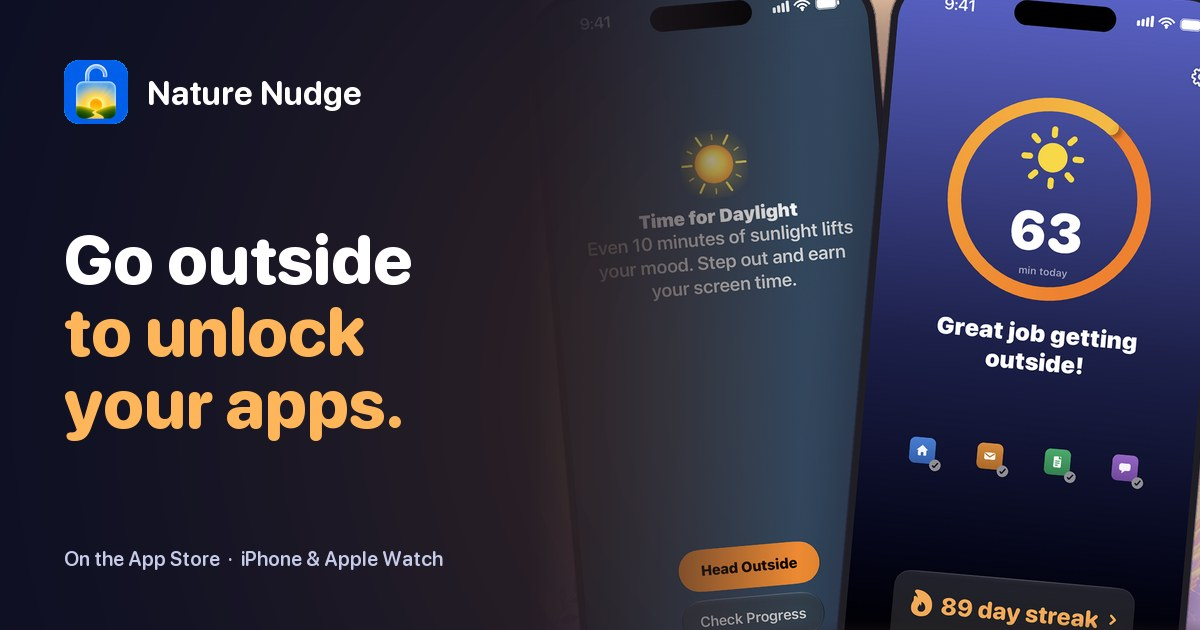
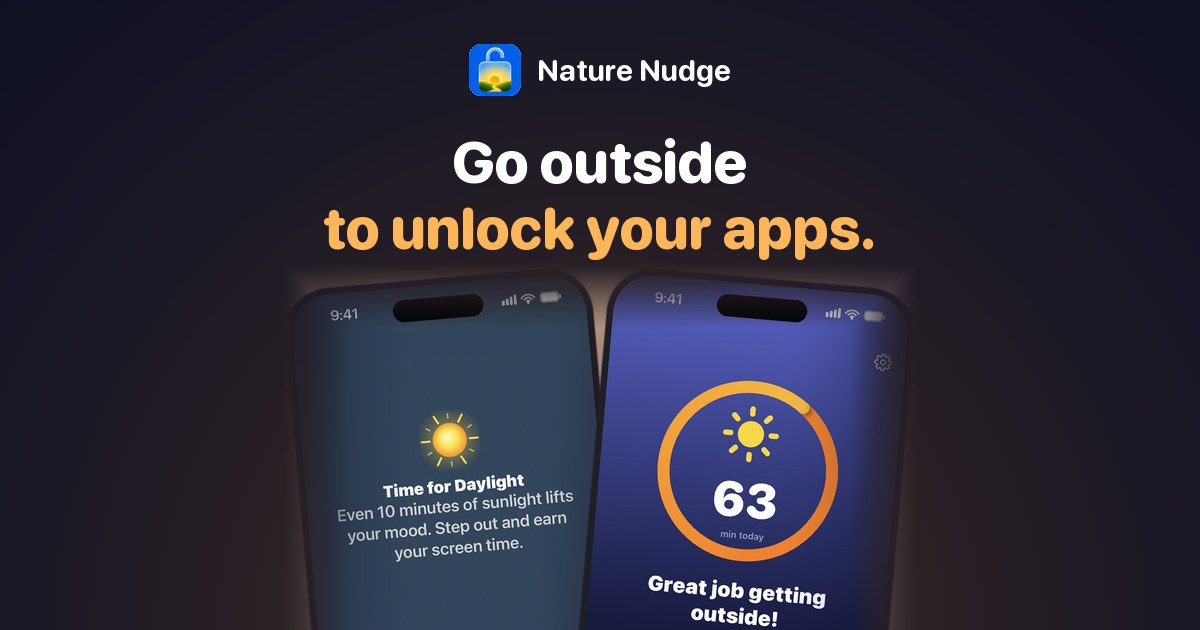
Fix the link preview, and answer the sleeve question
iMessage was rendering a card that read "e Nudge" over a sliced headline. The
page advertised two og:image tags, a 1200x630 and a 1200x1200; iMessage took the
square, then cropped it to its own card shape and cut the left edge off, which is
where the wordmark and headline lived.

Offering the square was the mistake. A second tag just lets each client pick a
different image, and you cannot design for all of them. There is one og:image
now, and it is composed centred so it survives being cropped: wordmark, headline
and phones are all centre-aligned, and only gradient reaches the edges. A centre
square crop, which is roughly what iMessage takes, still reads completely.

The phone art needed work to sit on the card at all. It is a rectangular crop of
painted sunrise, much lighter than the ink ground, so it read as a pasted photo
with visible seams. sink() now pulls its edges toward ink and feather() ramps all
four sides, so the phones emerge out of the dark instead.

Also adds an FAQ for whether daylight still counts under a sleeve. It does, and
it is the kind of thing someone wonders about on the way out of the door in a
coat. Apple documents the ambient light sensor but not sleeve coverage either
way, so the answer states the behaviour without inventing a mechanism for it.

axe-core: zero violations, both pages, both colour schemes.

diff --git a/index.html b/index.html
@@ -25,17 +25,13 @@
 <meta property="og:image:type" content="image/jpeg">
 <meta property="og:image:width" content="1200">
 <meta property="og:image:height" content="630">
-<meta property="og:image:alt" content="Two iPhones running Nature Nudge beside the headline Go outside to unlock your apps.">
-<meta property="og:image" content="https://brian-meersma.github.io/NatureNudge-Website/assets/og-image-square.jpg">
-<meta property="og:image:type" content="image/jpeg">
-<meta property="og:image:width" content="1200">
-<meta property="og:image:height" content="1200">
+<meta property="og:image:alt" content="Two iPhones running Nature Nudge below the headline Go outside to unlock your apps.">
 
 <meta name="twitter:card" content="summary_large_image">
 <meta name="twitter:title" content="Nature Nudge | Go outside to unlock your apps">
 <meta name="twitter:description" content="Your distracting apps stay locked until you meet a daily daylight, steps, or distance goal.">
 <meta name="twitter:image" content="https://brian-meersma.github.io/NatureNudge-Website/assets/og-image.jpg">
-<meta name="twitter:image:alt" content="Two iPhones running Nature Nudge beside the headline Go outside to unlock your apps.">
+<meta name="twitter:image:alt" content="Two iPhones running Nature Nudge below the headline Go outside to unlock your apps.">
 
 <link rel="preconnect" href="https://fonts.googleapis.com">
 <link rel="preconnect" href="https://fonts.gstatic.com" crossorigin>
@@ -387,6 +383,15 @@
                     Only for daylight goals. The watch’s ambient light sensor is what
                     verifies real time outdoors. Steps and distance goals work from iPhone
                     Health data alone.
+                </p>
+            </details>
+            <details>
+                <summary>Does it still count if my watch is under a sleeve?</summary>
+                <p>
+                    Yes. A long sleeve or a coat cuff over the watch does not stop it
+                    counting, so you can walk in whatever you would normally wear and
+                    still get the credit. There is nothing to push up and no wrist to
+                    hold out.
                 </p>
             </details>
             <details>

diff --git a/privacy.html b/privacy.html
@@ -25,17 +25,13 @@
 <meta property="og:image:type" content="image/jpeg">
 <meta property="og:image:width" content="1200">
 <meta property="og:image:height" content="630">
-<meta property="og:image:alt" content="Two iPhones running Nature Nudge beside the headline Go outside to unlock your apps.">
-<meta property="og:image" content="https://brian-meersma.github.io/NatureNudge-Website/assets/og-image-square.jpg">
-<meta property="og:image:type" content="image/jpeg">
-<meta property="og:image:width" content="1200">
-<meta property="og:image:height" content="1200">
+<meta property="og:image:alt" content="Two iPhones running Nature Nudge below the headline Go outside to unlock your apps.">
 
 <meta name="twitter:card" content="summary_large_image">
 <meta name="twitter:title" content="Privacy policy | Nature Nudge">
 <meta name="twitter:description" content="No account, no analytics, no advertising. Your goals, schedule and streak stay on your device.">
 <meta name="twitter:image" content="https://brian-meersma.github.io/NatureNudge-Website/assets/og-image.jpg">
-<meta name="twitter:image:alt" content="Two iPhones running Nature Nudge beside the headline Go outside to unlock your apps.">
+<meta name="twitter:image:alt" content="Two iPhones running Nature Nudge below the headline Go outside to unlock your apps.">
 
 <link rel="preconnect" href="https://fonts.googleapis.com">
 <link rel="preconnect" href="https://fonts.gstatic.com" crossorigin>

diff --git a/tools/make-og-image.py b/tools/make-og-image.py
@@ -8,8 +8,14 @@ at thumbnail size.
 
     python3 tools/make-og-image.py
 
-Writes assets/og-image.jpg (1200x630, the one nearly every platform uses) and
-assets/og-image-square.jpg (1200x1200, for the few that prefer a square).
+Writes assets/og-image.jpg (1200x630).
+
+One image, and a centred composition. An earlier version offered a second square
+og:image as well; iMessage picked the square, cropped its left edge off, and
+rendered a card reading "e Nudge" over a sliced headline. Clients crop the
+preview to whatever their card wants, so everything that matters lives inside the
+centre square: the wordmark, the headline and the phones are all centred, and the
+gradient is the only thing at the edges.
 """
 
 import os
@@ -62,24 +68,60 @@ def art(scale_px):
     return src.resize((scale_px, h), Image.LANCZOS)
 
 
-def feather(img, left=0, top=0, bottom=0):
-    """Alpha ramps on the given edges so the art melts into the background."""
+def feather(img, left=0, right=0, top=0, bottom=0):
+    """Alpha ramps on the given edges so the art melts into the background.
+
+    The source crop is a rectangle of painted sunrise, much lighter than the ink
+    ground. Without ramps on every side that rectangle reads as a pasted box.
+    """
     img = img.convert("RGBA")
+    w, h = img.size
     mask = Image.new("L", img.size, 255)
-    d = ImageDraw.Draw(mask)
+    px = mask.load()
+
+    def ramp(n, i):
+        return int(255 * (i / n) ** 1.4)
+
     for x in range(left):
-        d.line([(x, 0), (x, img.height)], fill=int(255 * (x / left) ** 1.5))
+        v = ramp(left, x)
+        for y in range(h):
+            px[x, y] = min(px[x, y], v)
+    for x in range(right):
+        v = ramp(right, x)
+        for y in range(h):
+            px[w - 1 - x, y] = min(px[w - 1 - x, y], v)
     for y in range(top):
-        v = int(255 * (y / top) ** 1.5)
-        for x in range(img.width):
-            mask.putpixel((x, y), min(mask.getpixel((x, y)), v))
+        v = ramp(top, y)
+        for x in range(w):
+            px[x, y] = min(px[x, y], v)
     for y in range(bottom):
-        v = int(255 * (y / bottom) ** 1.5)
-        yy = img.height - 1 - y
-        for x in range(img.width):
-            mask.putpixel((x, yy), min(mask.getpixel((x, yy)), v))
+        v = ramp(bottom, y)
+        for x in range(w):
+            px[x, h - 1 - y] = min(px[x, h - 1 - y], v)
+
     img.putalpha(mask)
     return img
+
+
+def sink(img, strength=0.55):
+    """Pull the art's own background down toward ink at its edges, so the warm
+    painted sky inside the crop does not sit brighter than the card around it."""
+    img = img.convert("RGBA")
+    w, h = img.size
+    ink = Image.new("RGB", (w, h), INK)
+    fade = Image.new("L", (w, h), 0)
+    px = fade.load()
+    for x in range(w):
+        # 1 at the outer edge, 0 across the middle 56%
+        t = abs(x - w / 2) / (w / 2)
+        v = 0.0 if t < 0.56 else ((t - 0.56) / 0.44) ** 1.6
+        col = int(255 * v * strength)
+        for y in range(h):
+            px[x, y] = col
+    blended = Image.composite(ink, img.convert("RGB"), fade)
+    out = blended.convert("RGBA")
+    out.putalpha(img.getchannel("A"))
+    return out
 
 
 def wordmark(canvas, d, x, y, icon_px):
@@ -102,44 +144,45 @@ def headline(d, x, y, size):
 
 
 def wide():
-    """1200x630 — text column left, phone pair bleeding off the right."""
-    w, h, pad = 1200, 630, 64
-    canvas = background(w, h, glow_at=(0.74, 0.62))
-
-    a = art(round(w * 0.60))
-    a = feather(a, left=round(a.width * 0.38), bottom=round(a.height * 0.10))
-    canvas.paste(a, (w - a.width + round(a.width * 0.06), -round(a.height * 0.05)), a)
-
+    """1200x630, centre-composed so a square crop still reads."""
+    w, h, pad = 1200, 630, 44
+    canvas = background(w, h, glow_at=(0.5, 1.02))
     d = ImageDraw.Draw(canvas)
-    wordmark(canvas, d, pad, pad - 4, 64)
-    headline(d, pad, 218, 68)
-    d.text((pad, h - pad - 20), "On the App Store  ·  iPhone & Apple Watch",
-           font=font(20, "Semibold"), fill=MUTED)
-    return canvas
 
+    # Phones rise from the bottom edge, centred.
+    a = art(640)
+    a = sink(a)
+    a = feather(a, left=70, right=70, top=round(a.height * 0.10))
+    canvas.paste(a, ((w - a.width) // 2, 262), a)
 
-def square():
-    """1200x1200 — text block on top, phone pair filling the lower half."""
-    w, h, pad = 1200, 1200, 84
-    canvas = background(w, h, glow_at=(0.5, 0.86))
+    # Wordmark, centred as a unit.
+    icon_px, gap = 52, 16
+    label_font = font(30)
+    label_w = d.textlength("Nature Nudge", font=label_font)
+    x = (w - (icon_px + gap + label_w)) / 2
+    icon = Image.open(ICON).convert("RGBA").resize((icon_px, icon_px), Image.LANCZOS)
+    rounded = Image.new("L", (icon_px, icon_px), 0)
+    ImageDraw.Draw(rounded).rounded_rectangle(
+        (0, 0, icon_px - 1, icon_px - 1), radius=int(icon_px * 0.225), fill=255)
+    icon.putalpha(rounded)
+    canvas.paste(icon, (round(x), pad), icon)
+    d.text((x + icon_px + gap, pad + icon_px / 2), "Nature Nudge",
+           font=label_font, fill=WHITE, anchor="lm")
 
-    a = art(round(w * 0.92))
-    a = feather(a, top=round(a.height * 0.06))
-    canvas.paste(a, ((w - a.width) // 2, 470), a)
-
-    d = ImageDraw.Draw(canvas)
-    wordmark(canvas, d, pad, pad, 76)
-    headline(d, pad, 236, 78)
+    # Headline, centred, two lines so it stays inside the centre square.
+    for i, (text, colour) in enumerate([("Go outside", WHITE),
+                                        ("to unlock your apps.", AMBER)]):
+        d.text((w / 2, 126 + i * 66), text, font=font(58, "Heavy"),
+               fill=colour, anchor="ma")
     return canvas
 
 
 def main():
     os.makedirs(OUT, exist_ok=True)
-    for name, image in (("og-image.jpg", wide()),
-                        ("og-image-square.jpg", square())):
-        path = os.path.join(OUT, name)
-        image.save(path, quality=88, optimize=True, progressive=True)
-        print(f"{name}: {image.size}  {os.path.getsize(path) // 1024} KB")
+    path = os.path.join(OUT, "og-image.jpg")
+    image = wide()
+    image.save(path, quality=88, optimize=True, progressive=True)
+    print(f"og-image.jpg: {image.size}  {os.path.getsize(path) // 1024} KB")
 
 
 if __name__ == "__main__":

diff --git a/README.md b/README.md
@@ -22,23 +22,36 @@ assets/
   favicon-*.png             16/32/48/192/512 app icon, for browser tabs
   apple-touch-icon.png      180px home-screen icon, opaque as iOS requires
   og-image.jpg              1200x630 link preview
-  og-image-square.jpg       1200x1200 link preview
   app-store-badge-*.svg     Apple's official US badges (black is the one in use)
   screens/                  Device screenshots, 720px wide
 ```
 
 ## Link previews
 
-`assets/og-image.jpg` (1200x630) is what iMessage, Twitter/X, Slack, Discord,
-Facebook and LinkedIn render. `og-image-square.jpg` (1200x1200) is listed second
-for the handful of clients that prefer a square. Both are built from the
+`assets/og-image.jpg` (1200x630) is the single link preview, built from the
 `05-pair-tight` hero in `~/Downloads/Nature Nudge Hero 2` by:
 
 ```bash
 python3 tools/make-og-image.py
 ```
 
-Edit the script, not the JPEGs. It needs Pillow and the source art on disk.
+Edit the script, not the JPEG. It needs Pillow and the source art on disk.
+
+**One image, centre-composed, and it must stay that way.** An earlier version
+also offered a 1200x1200 `og:image` as a second tag. iMessage chose the square,
+cropped its left edge off, and rendered a card reading "e Nudge" over a sliced
+headline. Two lessons, both baked into the script now:
+
+- Advertise exactly one `og:image`. A second tag is an invitation for a client
+  to pick the one you did not design for.
+- Clients crop the preview to whatever their card wants, so keep everything that
+  matters inside the centre square (x 285-915). The wordmark, headline and
+  phones are all centred; only gradient reaches the edges. `tools/` has no test
+  for this, so eyeball a centre-square crop after any change.
+
+The phone art is a rectangular crop of painted sunrise, much lighter than the
+ink ground, so `sink()` pulls its edges toward ink and `feather()` ramps all four
+sides. Without both it reads as a photo pasted onto the card.
 
 ## Design
 
